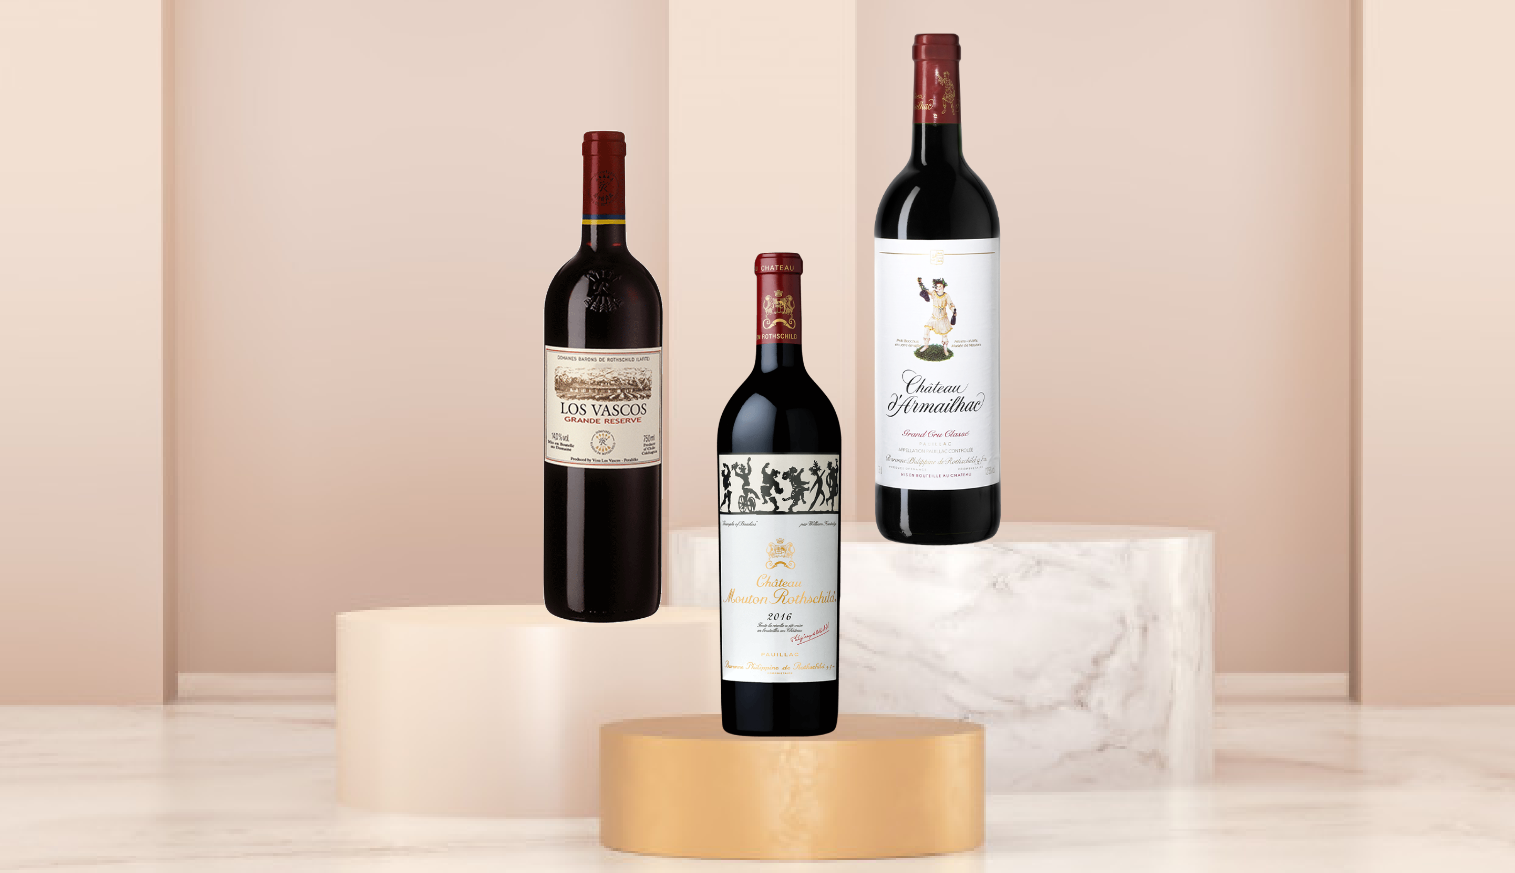
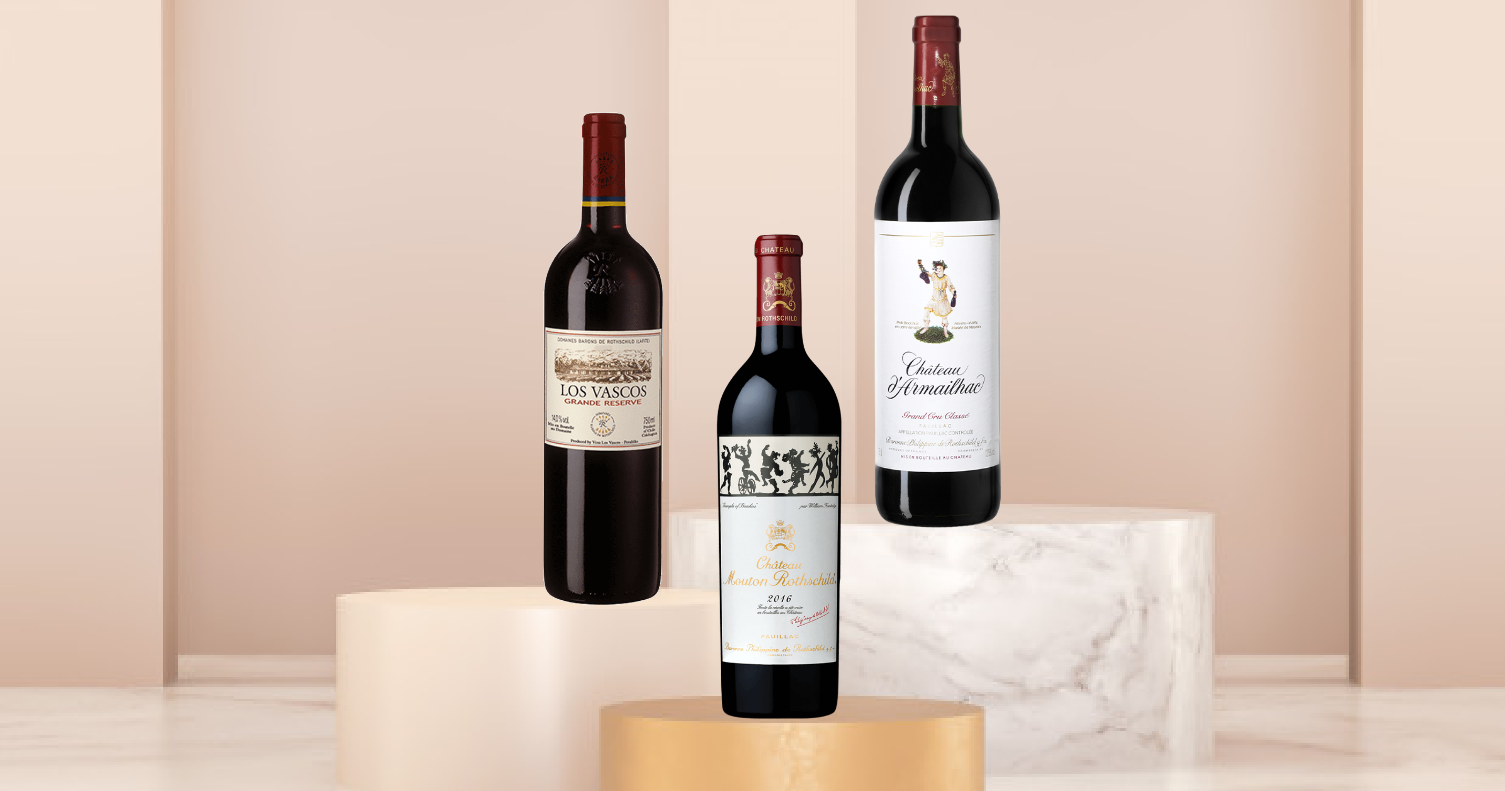
index pic

diff --git a/css/detail.css b/css/detail.css
@@ -64,7 +64,7 @@ header.thinbanner {
 
 /* 包住main和aside的大框 */
 .vessel {
-    border: 1px solid green;
+    /* border: 1px solid green; */
     max-width: 1520px;
     display: flex;
     flex-direction: column;
@@ -78,7 +78,7 @@ header.thinbanner {
 
 /* aside在.vessel裡 */
 aside.aside {
-    border: 1px solid yellow;
+    /* border: 1px solid yellow; */
     max-width: 100%;
     height: 33%;
     display: flex;
@@ -161,7 +161,7 @@ section.rightend {
 }
 
 .bigimg {
-    width: 100%;
+    /* width: 50%; */
     /* height: 100%; */
     /* border: 10px solid #a08e84; */
     border: 10px solid  #BAA079;
@@ -227,7 +227,6 @@ div.right {
     border: 1px solid #BAA079;
     color: #BAA079;
     background-color: rgba(160, 142, 132 1);
-
 }
 
 .add_minus {
@@ -357,7 +356,7 @@ div.right {
 
 article {
     width: 100%;
-    margin-top: 50px;
+    /* margin-top: 50px; */
     display: flex;
     justify-content: center;
     /* border: 5px solid red; */
@@ -398,10 +397,6 @@ article {
     margin: 0px;
     color: grey;
 }
-
-
-
-
 
 
 

diff --git a/detail.html b/detail.html
@@ -89,7 +89,7 @@
 			
 				
                     <div class="big">
-                         <div class="bigimg"><img  id="large" src="./img/transparent4.png"></div>
+                         <div class="bigimg"><img  id="large" src="./img/small.png"></div>
                     </div>			
 
 				
@@ -125,7 +125,7 @@
 		    <div class="right">
 
 				<div class="small">
-					<button type="button" onclick="ChangeText0()"><img src="./img/picaso.png" ></button> 
+					<button type="button" onclick="ChangeText0()"><img src="./img/small.png" ></button> 
 					<button type="button" onclick="ChangeText1()"><img src="./img/back.png" ></button>
 					<button type="button" onclick="ChangeText2()"><img src="./img/cap0.png" ></button> 
 					<button type="button" onclick="ChangeText3()"><img src="./img/label1.png" ></button>

diff --git a/index.html b/index.html
@@ -128,10 +128,6 @@
 		<!-- <button type="button" class="btn_toggle">Wine Tarot</button> -->
 		<aside class="aside">
 			<section class="left">	<!-- 左section -->
-				<div id="tparty1"> 
-					123
-
-				</div>
 
 				<div id="tdesc1">
 					456
@@ -140,6 +136,13 @@
 						<input type="button" class="online_submit" value="Book Tickets">
 					</div> -->
 				</div>
+				
+				<div id="tparty1"> 
+					123
+
+				</div>
+
+
 				
 		   </section> <!-- 左section -->
 
